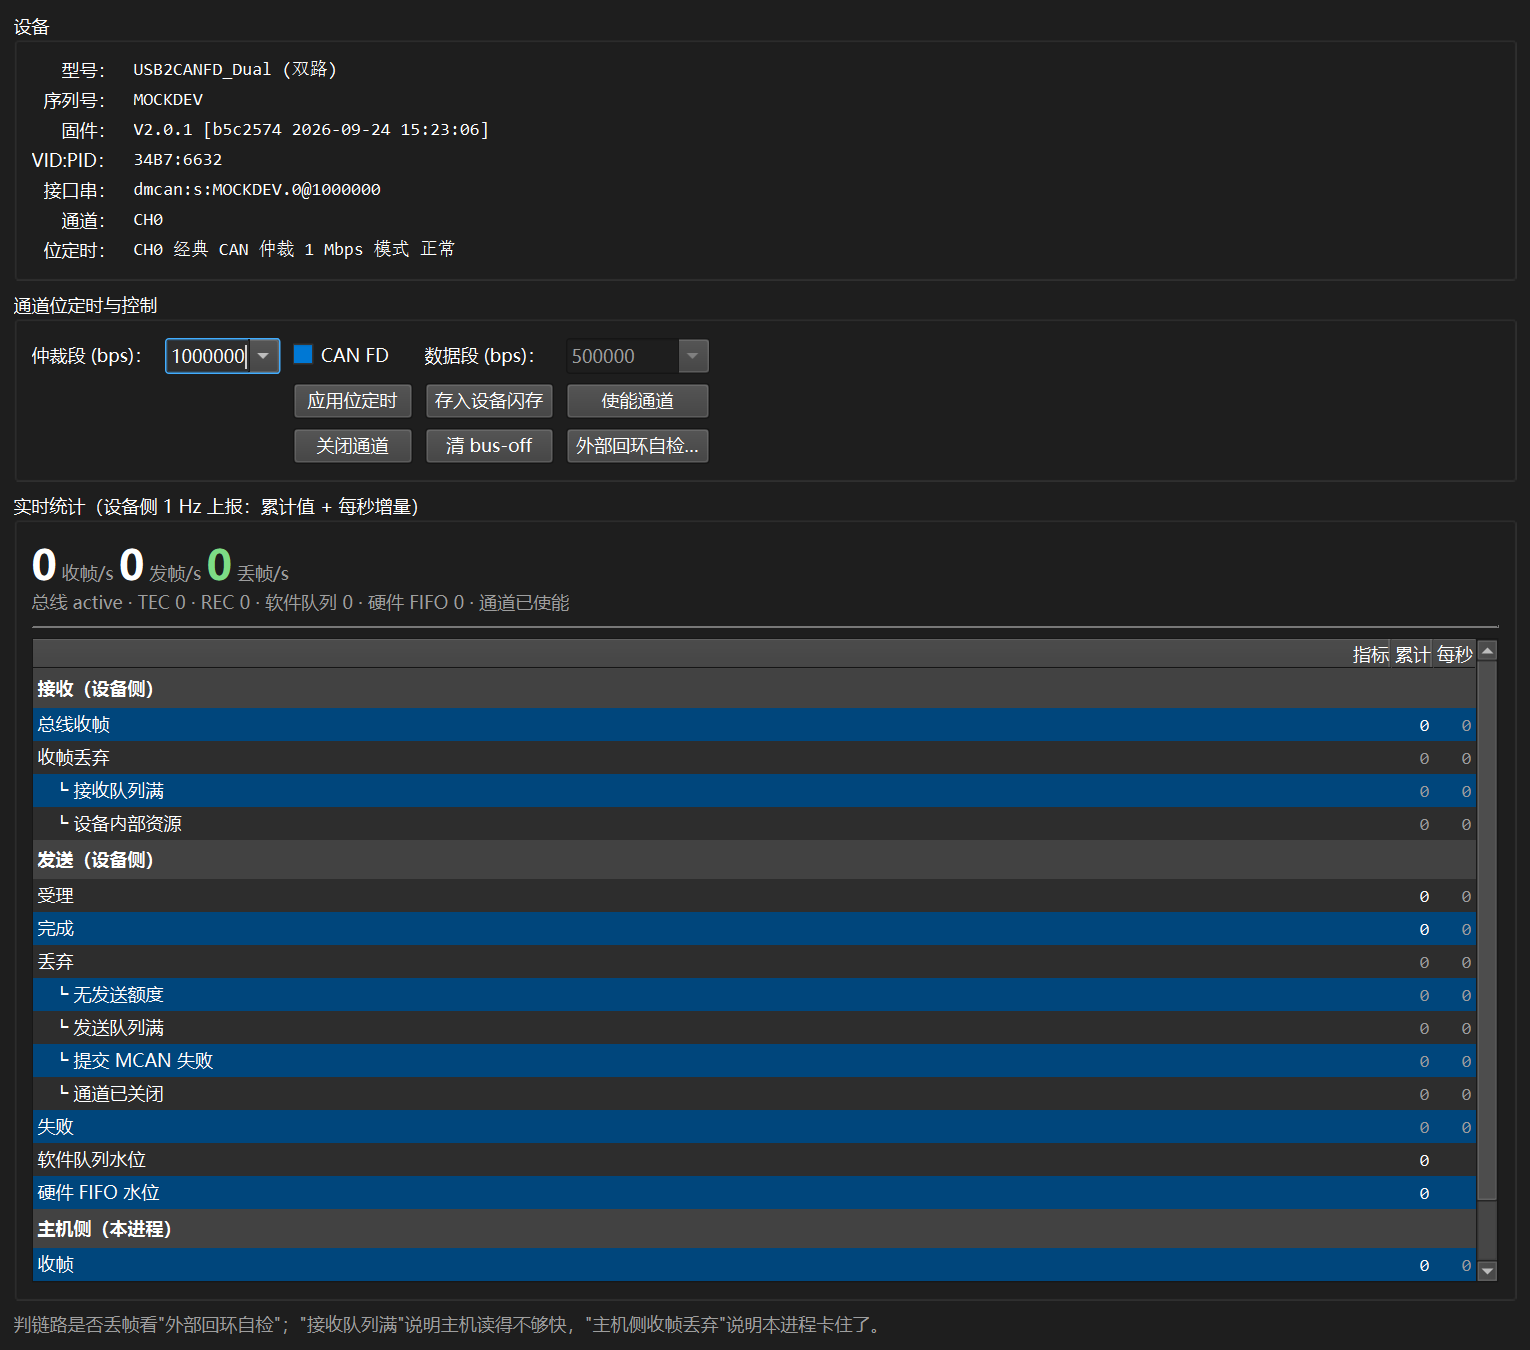
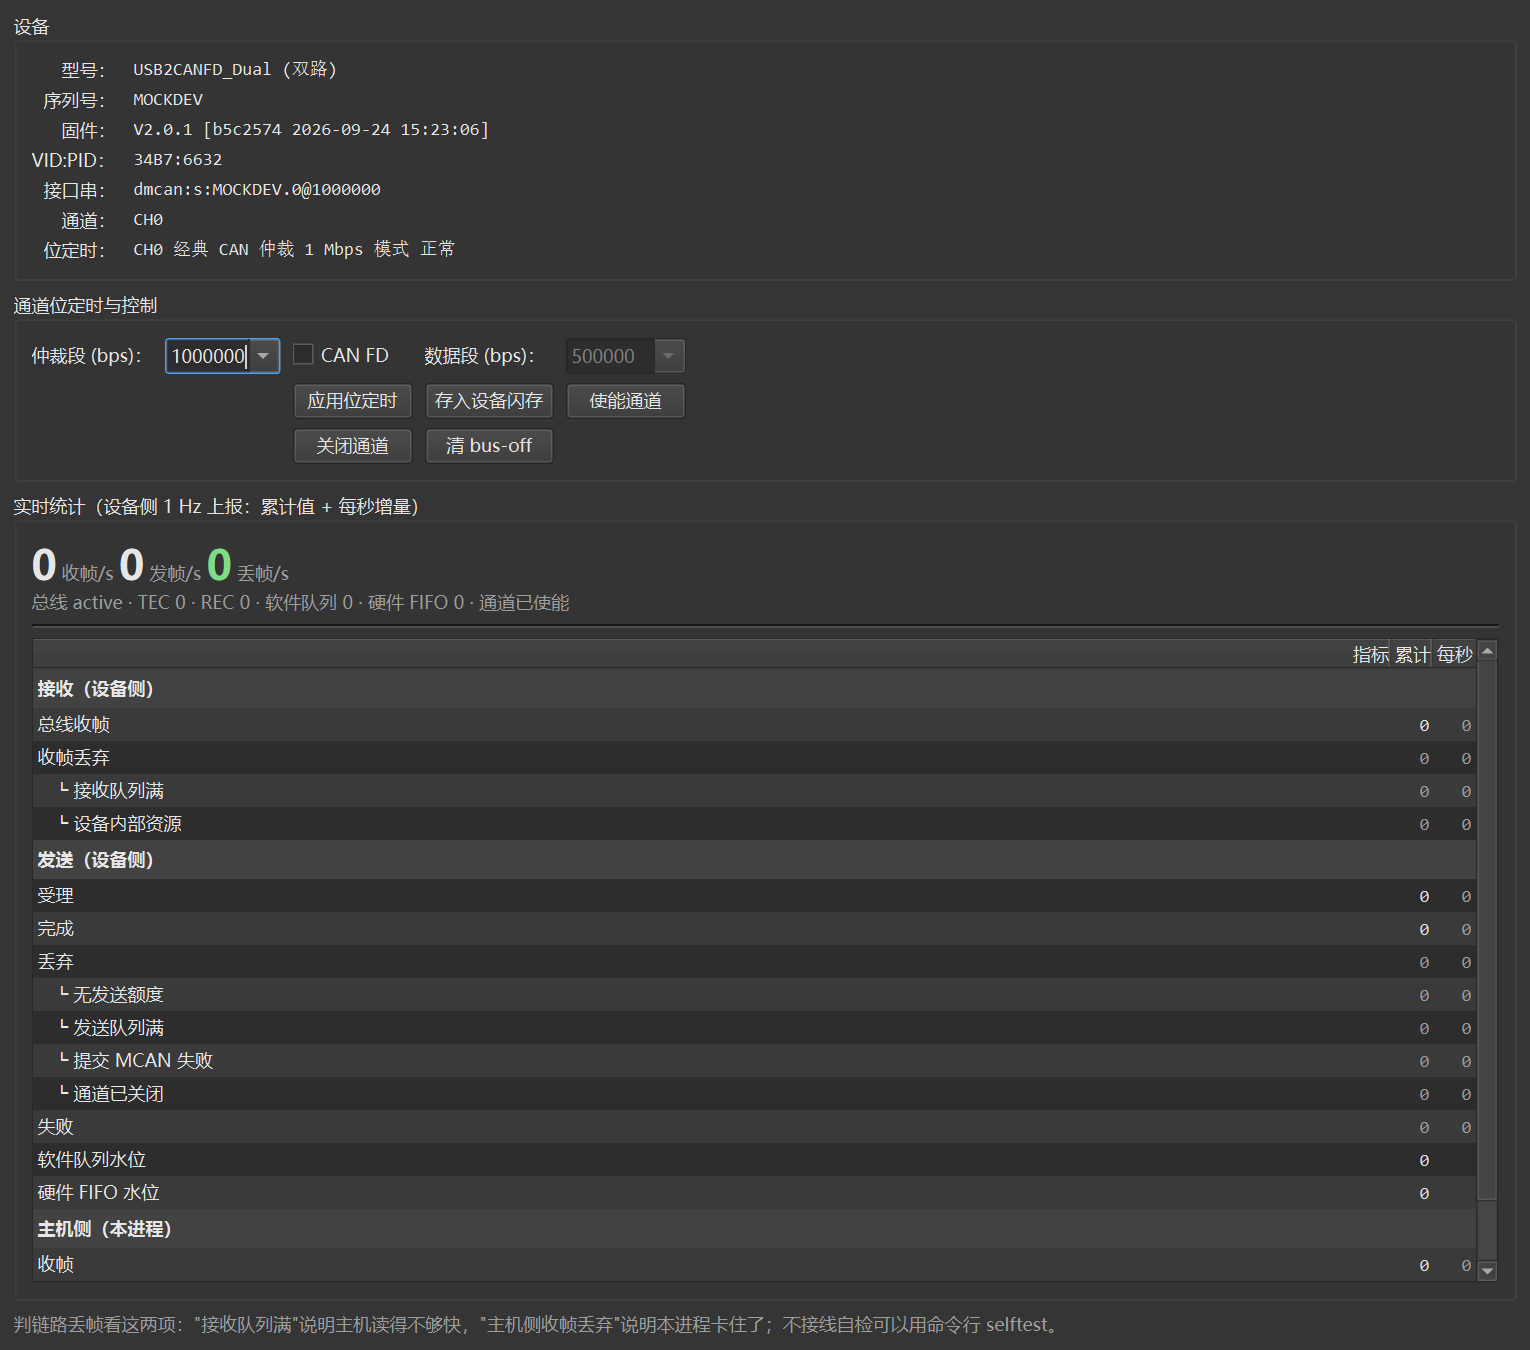
面板：删掉「外部回环自检」按钮（命令行的 selftest 保留）
面板上那个按钮会把通道临时切到"外部回环"，**帧真的会上总线**（只是不等 ACK）——
现场有其它节点时等于往总线上灌 1000 帧，不适合做成随手可点的按钮；命令行
`dmcan-dronecan-tool selftest` 是显式操作，保留给排错用。

改动：
- 删除面板里的自检按钮、确认弹窗、结果弹窗、`_self_test()`，以及只服务于它的 QMessageBox 导入；
- 面板底部提示改为"看接收队列满 / 主机侧收帧丢弃，不接线自检用命令行 selftest"；模块 docstring 同步；
- 驱动与会话里的 `pause_rx()` / `self_test()` 保留（CLI 仍在用）；
- docs/images/adapter-panel.png 按删除后的代码重出（深色主题，与总线监视器截图同主题）；
- tools/make_readme_images.py 修两个坑：上游 main.py 在 **import 时**就解析 sys.argv
  （本脚本的参数要临时清掉，否则报 unrecognized arguments）、并固定缩放比与主题。

验证：py_compile 通过；87 个用例全过；离屏 GUI 冒烟正常；新截图 OCR 能正常读出面板文字。

diff --git a/tools/make_readme_images.py b/tools/make_readme_images.py
@@ -46,18 +46,28 @@ def ink_ratio(image) -> float:
 
 def render_panel() -> str:
     """@brief 渲染达妙适配器控制面板（仿真 SDK，不需要硬件）。"""
+    # 截图不需要 HiDPI：不固定缩放比的话，抓出来是 1.5 倍大小、而且窗口内容只占左半边
+    os.environ.setdefault('QT_SCALE_FACTOR', '1')
     sys.path.insert(0, PROJECT_ROOT)
     from PyQt6.QtWidgets import QApplication, QMainWindow
     from tests import fake_dmcan
 
     fake_dmcan.install([fake_dmcan.make_dual(serial='MOCKDEV', index=0)])
 
-    import dronecan
-    import dronecan_gui_tool.main as gui
-    from dronecan_gui_tool.widgets.dmcan_control_panel import spawn_window
+    # 上游 main.py 在 **import 时**就解析 sys.argv；不清理会把本脚本的参数喂给它（报 unrecognized arguments）
+    saved_argv = sys.argv
+    sys.argv = ['dronecan_gui_tool', '--interface', 'dmcan:s:MOCKDEV.0']
+    try:
+        import dronecan
+        import dronecan_gui_tool.main as gui
+        from dronecan_gui_tool.widgets.dmcan_control_panel import spawn_window
+    finally:
+        sys.argv = saved_argv
 
     app = QApplication(['make-readme-images'])
     app.setStyle('Fusion')
+    from dronecan_gui_tool.widgets import theme
+    theme.apply_mode(app, theme.MODE_DARK)        # 与总线监视器截图保持同一主题（只改调色板，不写偏好）
 
     iface = 'dmcan:s:MOCKDEV.0'
     iface_kwargs = dict(baudrate=115200, bitrate=1000000, bus_number=1, filtered=False,
